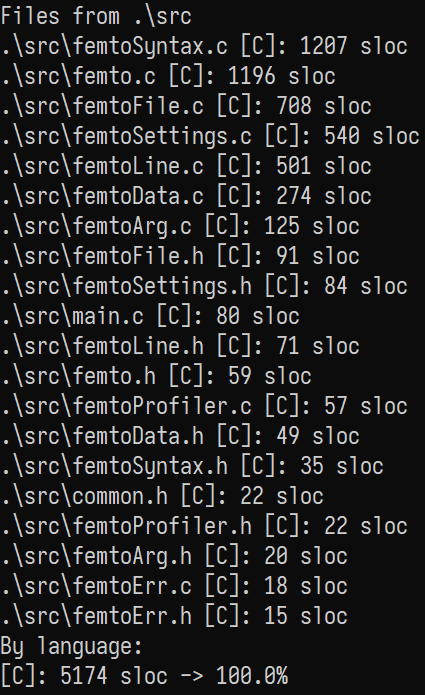
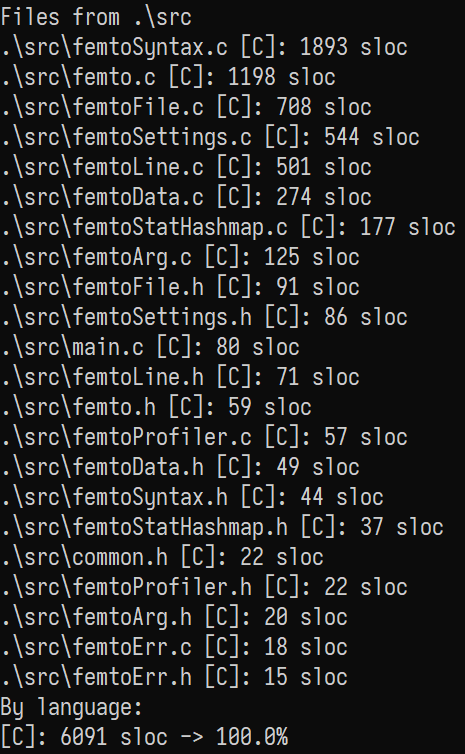
Add JS keywords

diff --git a/images/test.js b/images/test.js
@@ -7,5 +7,7 @@
 
 alert('Hello, world!');
 
-console.log("This is a absolutely necessary log...");
-
+for (var i = 0; i < 5; ++i)
+{
+	console.log(i + 1, "-> This is a absolutely necessary log...");
+}

diff --git a/src/femtoSyntax.c b/src/femtoSyntax.c
@@ -87,7 +87,7 @@ const char * fSyntaxName(enum femtoSyntax fs)
 		[fstxCPP]  = "C++",
 		[fstxMD]   = "Markdown",
 		[fstxPY]   = "Python",
-		[fstxJS]   = "JavaScript",
+		[fstxJS]   = "ECMAScript (JavaScript)",
 		[fstxJSON] = "JavaScript Object Notation (JSON)",
 		[fstxCSS]  = "Cascading Style Sheets (CSS)",
 		[fstxXML]  = "eXtensible Markup Language (XML)",
@@ -555,8 +555,190 @@ void checkJSToken(struct femtoLineNode * restrict node, uint32_t start, uint32_t
 	static size_t memory[MAX_JS_TOKEN_MEM];
 
 	static const wchar_t * keyWords[] = {
-		L"reinterpret_cast"
+		L"abstract",
+		L"arguments",
+		L"await",
+		L"boolean",
+		L"break",
+		L"byte",
+		L"case",
+		L"catch",
+		L"char",
+		L"class",
+		L"const",
+		L"continue",
+		L"debugger",
+		L"default",
+		L"delete",
+		L"do",
+		L"double",
+		L"else",
+		L"enum",
+		L"eval",
+		L"export",
+		L"extends",
+		L"false",
+		L"final",
+		L"finally",
+		L"float",
+		L"for",
+		L"function",
+		L"goto",
+		L"if",
+		L"implements",
+		L"import",
+		L"in",
+		L"instanceof",
+		L"int",
+		L"interface",
+		L"let",
+		L"long",
+		L"native",
+		L"new",
+		L"null",
+		L"package",
+		L"private",
+		L"protected",
+		L"public",
+		L"return",
+		L"short",
+		L"static",
+		L"super",
+		L"switch",
+		L"synchronized",
+		L"this",
+		L"throw",
+		L"throws",
+		L"transient",
+		L"true",
+		L"try",
+		L"typeof",
+		L"var",
+		L"void",
+		L"volatile",
+		L"while",
+		L"with",
+		L"yield",
+
+		L"Array",
+		L"Date",
+		L"hasOwnProperty",
+		L"Infinity",
+		L"isFinite",
+		L"isNaN",
+		L"isPrototypeOf",
+		L"length",
+		L"Math",
+		L"NaN",
+		L"name",
+		L"Number",
+		L"Object",
+		L"prototype",
+		L"String",
+		L"toString",
+		L"undefined",
+		L"valueOf",
+		
+		L"alert",
+		L"all",
+		L"anchor",
+		L"anchors",
+		L"area",
+		L"assign",
+		L"blur",
+		L"button",
+		L"checkbox",
+		L"clearInterval",
+		L"clearTimeout",
+		L"clientInformation",
+		L"close",
+		L"closed",
+		L"confirm",
+		L"constructor",
+		L"crypto",
+		L"decodeURI",
+		L"decodeURIComponent",
+		L"defaultStatus",
+		L"document",
+		L"element",
+		L"elements",
+		L"embed",
+		L"embeds",
+		L"encodeURI",
+		L"encodeURIComponent",
+		L"escape",
+		L"event",
+		L"fileUpload",
+		L"focus",
+		L"form",
+		L"forms",
+		L"frame",
+		L"innerHeight",
+		L"innerWidth",
+		L"layer",
+		L"layers",
+		L"link",
+		L"location",
+		L"mimeTypes",
+		L"navigate",
+		L"navigator",
+		L"frames",
+		L"frameRate",
+		L"hidden",
+		L"history",
+		L"image",
+		L"images",
+		L"offscreenBuffering",
+		L"open",
+		L"opener",
+		L"option",
+		L"outerHeight",
+		L"outerWidth",
+		L"packages",
+		L"pageXOffset",
+		L"pageYOffset",
+		L"parent",
+		L"parseFloat",
+		L"parseInt",
+		L"password",
+		L"pkcs11",
+		L"plugin",
+		L"prompt",
+		L"propertyIsEnum",
+		L"radio",
+		L"reset",
+		L"screenX",
+		L"screenY",
+		L"scroll",
+		L"secure",
+		L"select",
+		L"self",
+		L"setInterval",
+		L"setTimeout",
+		L"status",
+		L"submit",
+		L"taint",
+		L"text",
+		L"textArea",
+		L"top",
+		L"unescape",
+		L"untaint",
+		L"window",
+
+		L"onblur",
+		L"onclick",
+		L"onerror",
+		L"onfocus",
+		L"onkeydown",
+		L"onkeypress",
+		L"onkeyup",
+		L"onmouseover",
+		L"onload",
+		L"onmouseup",
+		L"onmousedown",
+		L"onsubmit"
 	};
+
 	static fHash_t map = { 0 };
 
 

diff --git a/src/femtoSyntax.h b/src/femtoSyntax.h
@@ -14,8 +14,8 @@
 #define MAX_PY_TOKEN_MEM 393
 #define MAX_PY_TOKEN_WORD 21
 
-#define MAX_JS_TOKEN_MEM 100
-#define MAX_JS_TOKEN_WORD 20
+#define MAX_JS_TOKEN_MEM 537
+#define MAX_JS_TOKEN_WORD 18
 
 struct femtoLineNode;
 

diff --git a/src/femtoStatHashmap.c b/src/femtoStatHashmap.c
@@ -127,6 +127,7 @@ void fHash_initData(
 	{
 		if (!fHash_insert(hash, data[i]))
 		{
+			writeProfiler("Failed on %S", data[i]);
 			hash->init = false;
 			return;
 		}

diff --git a/README.md b/README.md
@@ -13,7 +13,7 @@ It is also written in vanilla C & Win32 Console API - it's designed to be used s
 It has been compiled with MinGW GCC.
 
 Currently, my other tool [slocWin32](https://github.com/makuke1234/slocWin32)
-reports ~5200 source code lines (excluding whitespace, comments & [jsonlite2](https://github.com/makuke1234/jsonlite2) library):
+reports ~6100 source code lines (excluding whitespace, comments & [jsonlite2](https://github.com/makuke1234/jsonlite2) library):
 
 ![SLOC](./images/sloc.png)
 
@@ -161,7 +161,7 @@ Have a look at the provided [settings file](./settings.json) to get a better und
 ### C++
 ![!C++ syntax](./images/syntaxCPP.png)
 
-### JavaScript
+### ECMAScript (JavaScript)
 ![!JS syntax](./images/syntaxJS.png)
 
 ### Python
@@ -185,17 +185,17 @@ Have a look at the provided [settings file](./settings.json) to get a better und
 
 # Changelog
 
-* 1.8 (planned, planned)
+* 1.8 (planned)
 	* [ ] Search support, also search result highlighting
 	* [ ] Practical multi-file support, tabs' system
 	* [ ] Proper text copying/pasting support
 		* *Copying is already implicitly supported by the console itself, although limited to only 1 screenbuffer at a time*
 	* [ ] ~~Support for 'raw editing'/'saving later to a file'~~
 
-* 1.7.1 (planned)
+* 1.7.1
 	* [x] More syntax highlighting
 		* [x] Python
-		* [x] JavaScript
+		* [x] ECMAScript (JavaScript)
 		* [x] CSS
 		* [x] XML-like
 			* [x] HTML
